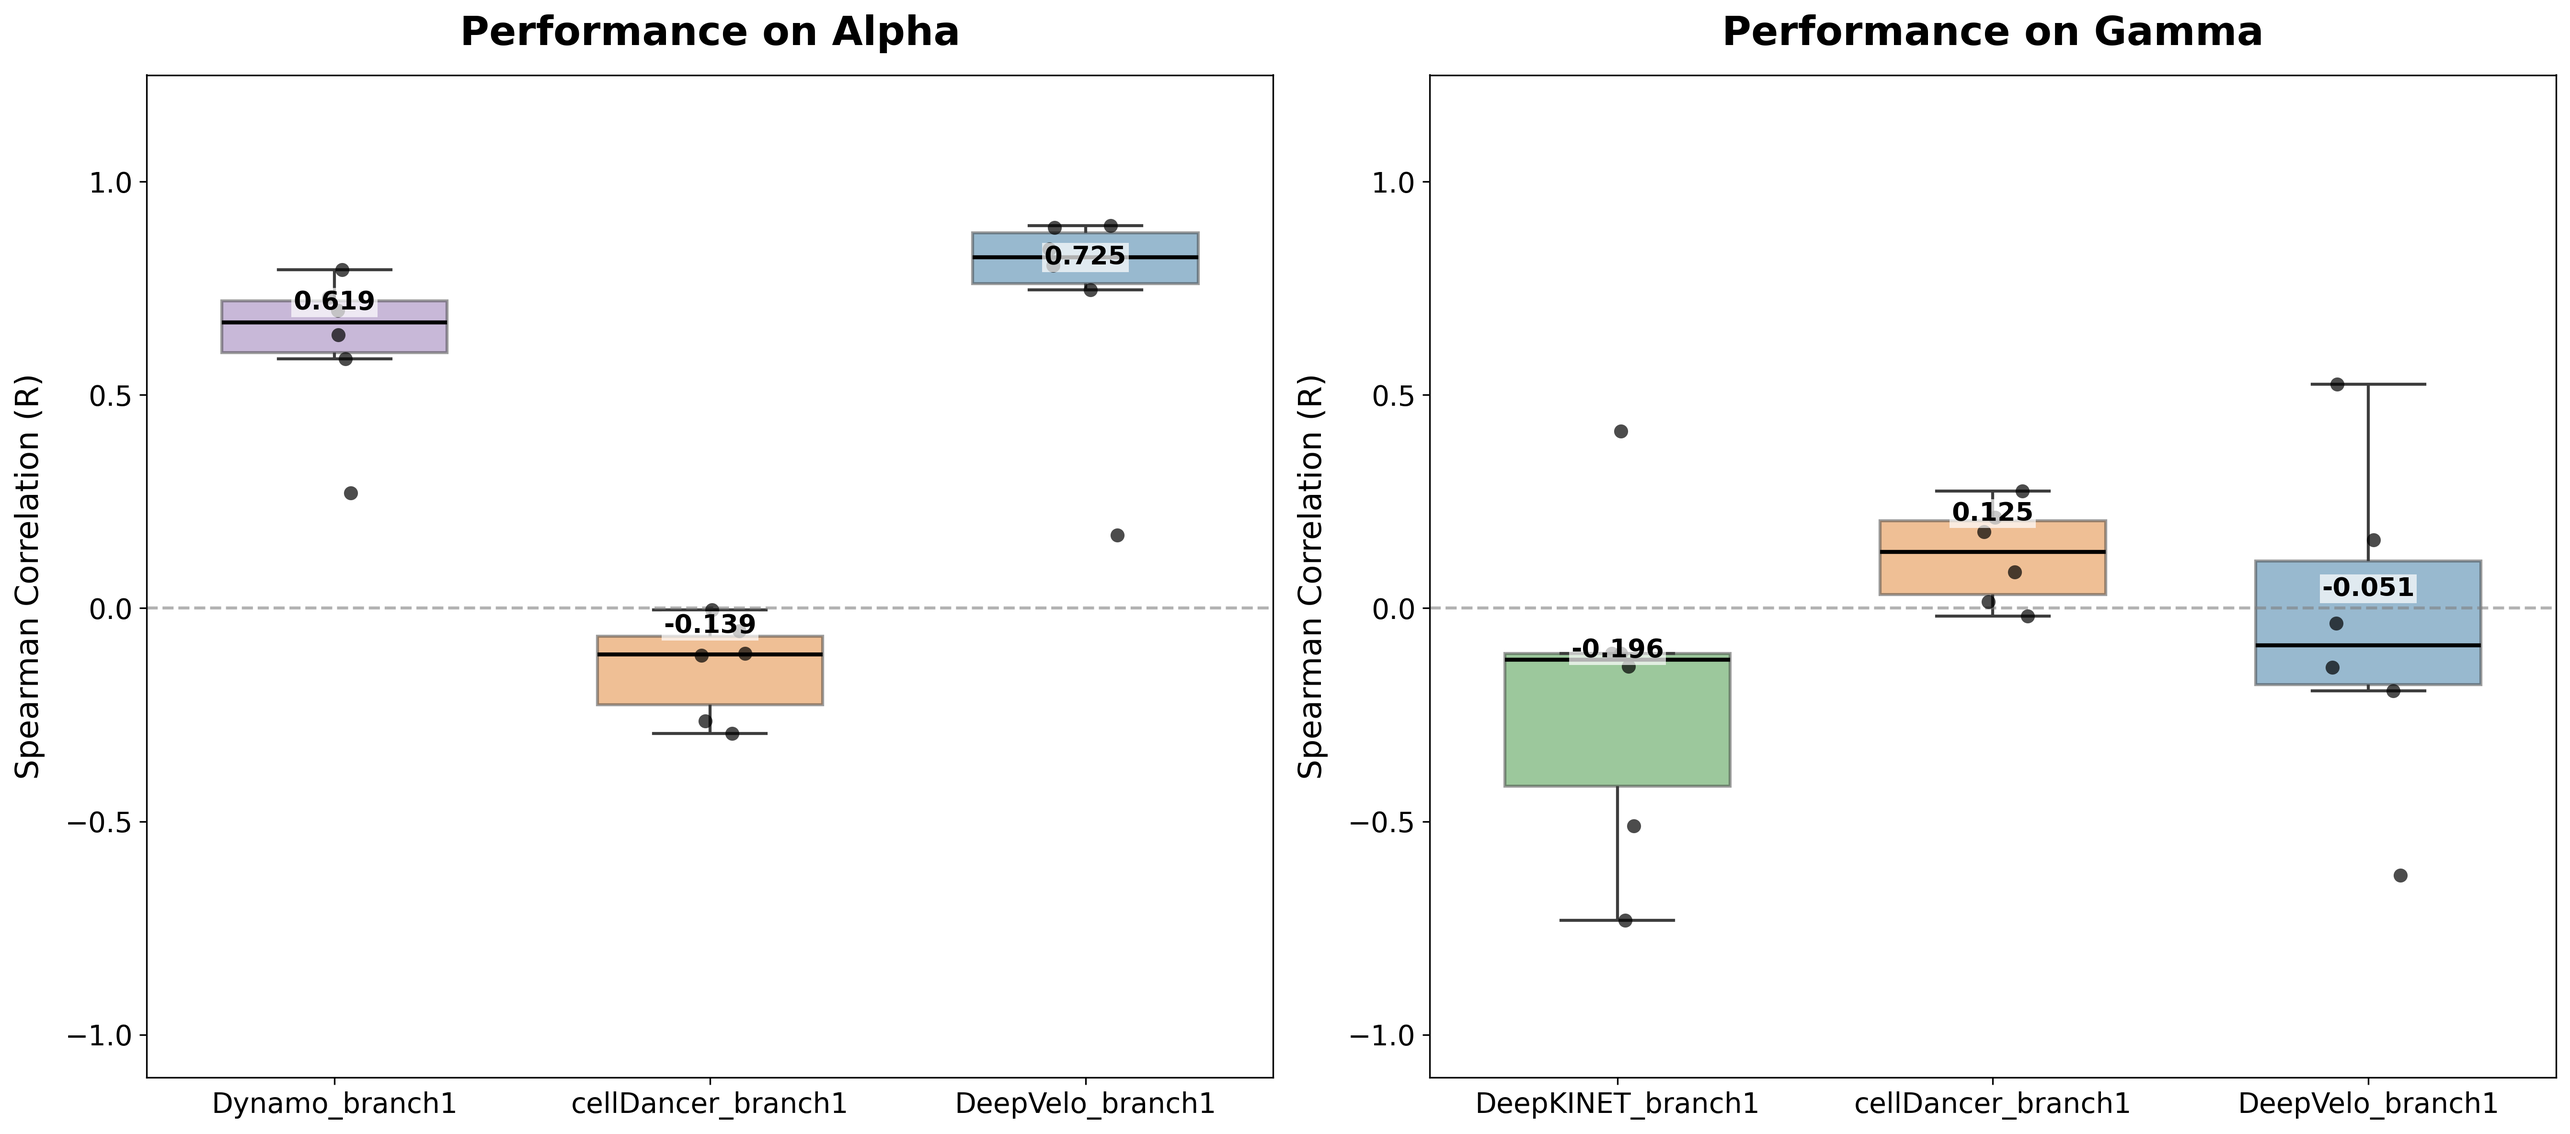
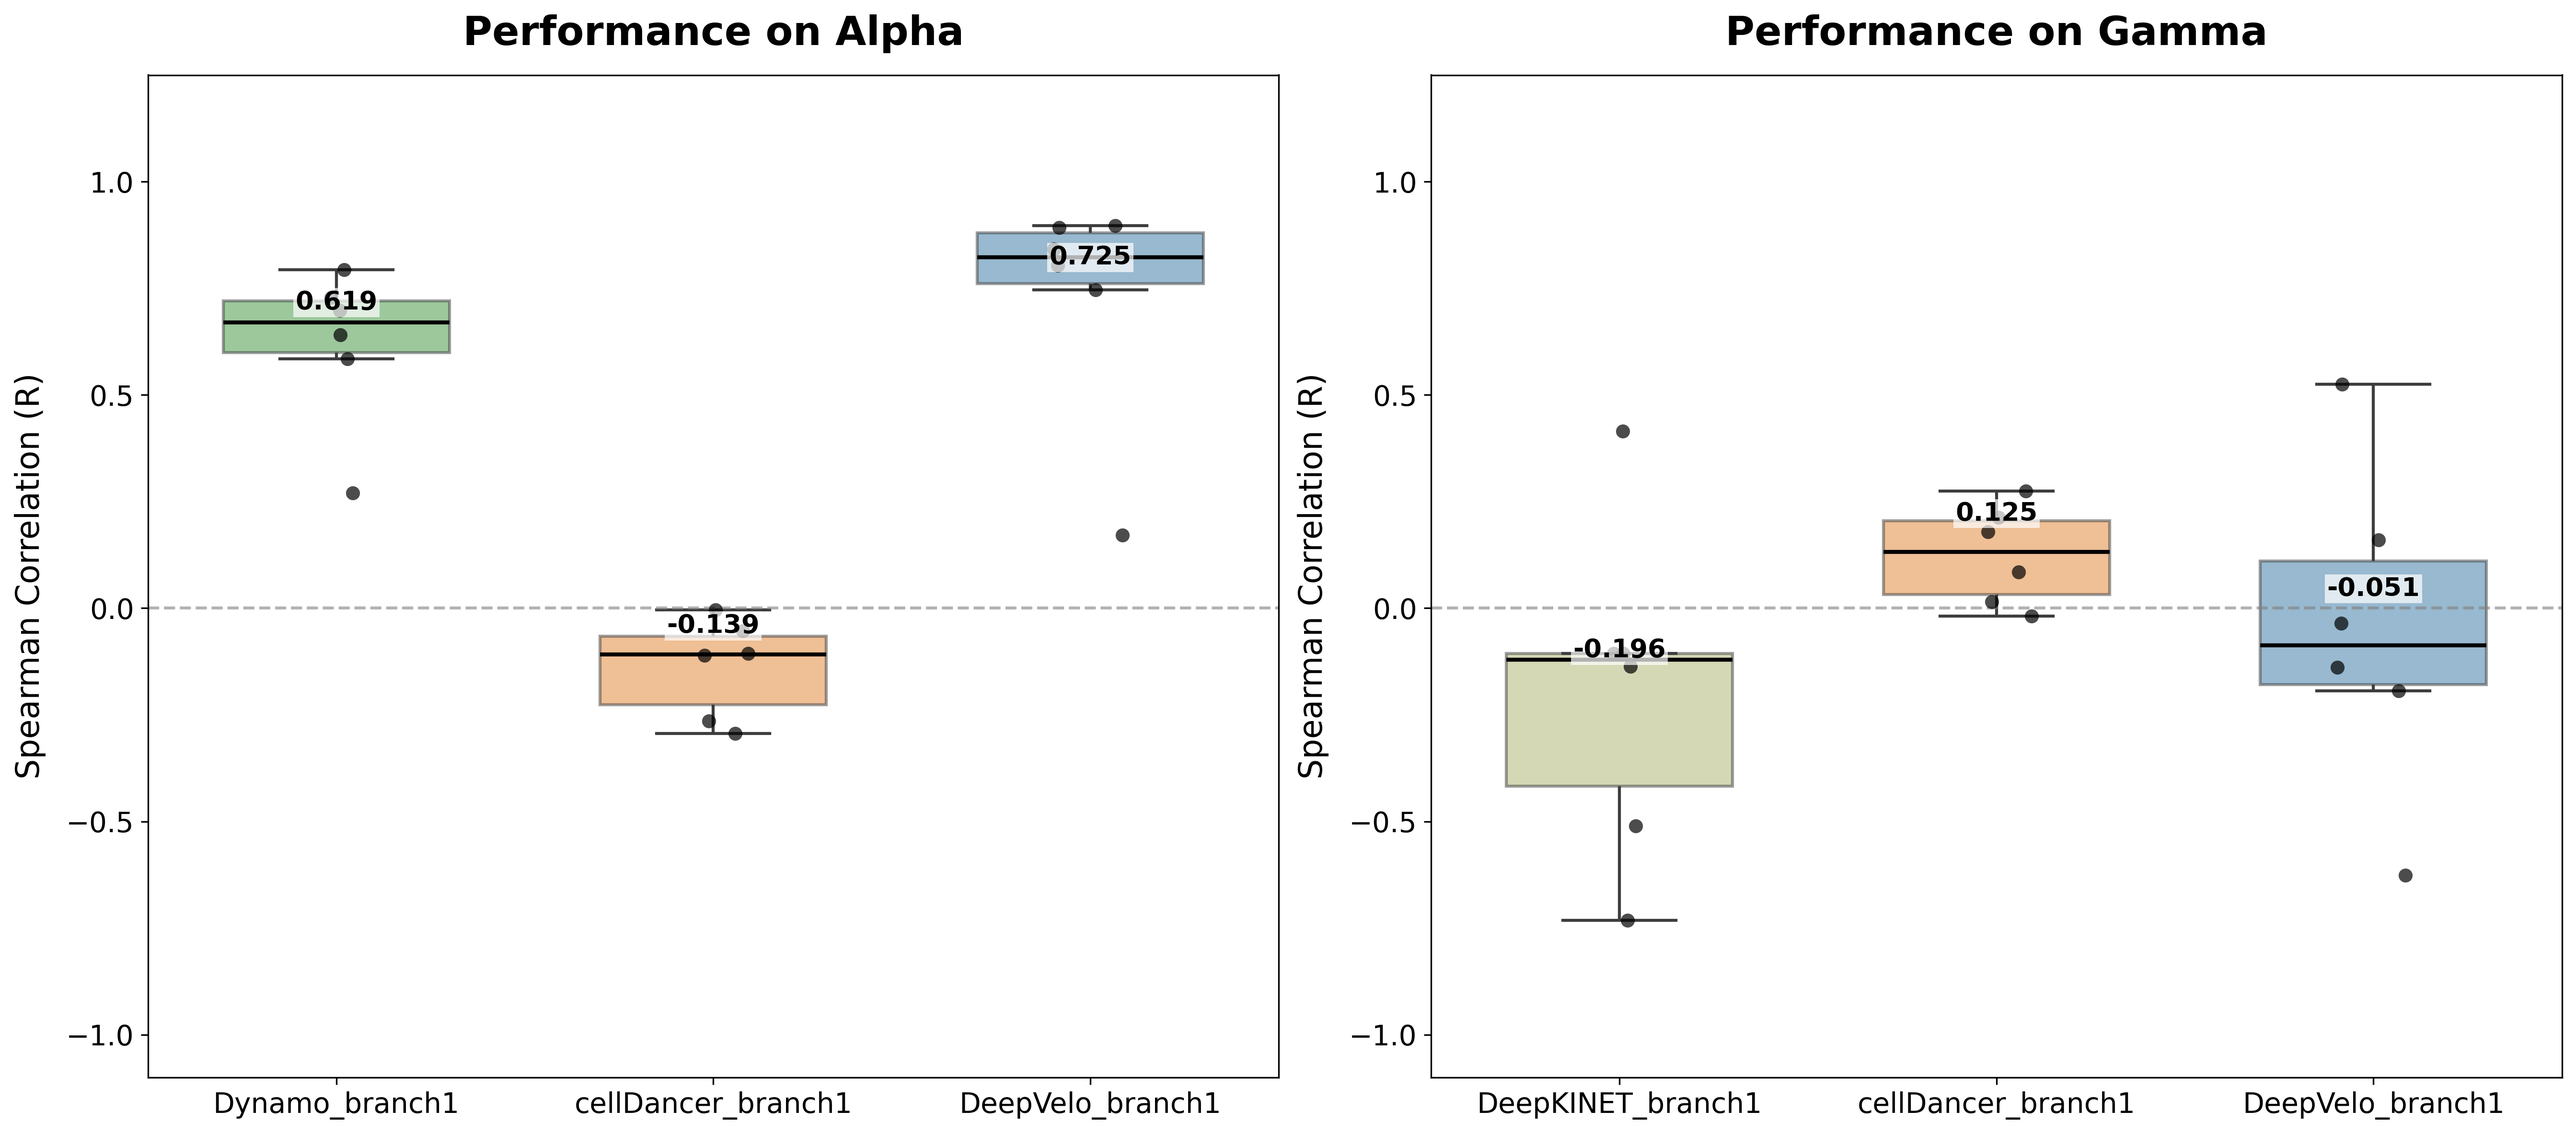
fix: enforce Figure 6 method palette

diff --git a/evaluation/kinetics_recovery/plotting/figure6.py b/evaluation/kinetics_recovery/plotting/figure6.py
@@ -31,12 +31,22 @@ DISPLAY_METHOD_NAMES = {
 }
 
 METHOD_COLORS = {
+    # Figure 6 method palette.  These colors are part of the display
+    # contract and must be reused by trajectories and organoid boxplots.
     "DeepVelo": "#1f77b4",
     "cellDancer": "#ff7f0e",
     "Dynamo(label data)": "#2ca02c",
     "TSvelo": "#e420ca",
     "DeepKINET": "#B5BD61",
 }
+
+
+def canonical_method_color(method: str) -> str:
+    """Return the fixed Figure 6 color for a method key."""
+    display_name = DISPLAY_METHOD_NAMES.get(method, method)
+    if display_name not in METHOD_COLORS:
+        raise KeyError(f"No canonical Figure 6 color registered for {method}")
+    return METHOD_COLORS[display_name]
 
 # Organoid panels are rendered separately for each branch, so the branch
 # suffix is retained for the existing method labels.  Dynamo's full
@@ -526,7 +536,7 @@ def main() -> None:
     for branch_id, branch_config in config["inputs"]["organoid"]["branches"].items():
         method_paths = {
             method: {
-                "color": values["color"],
+                "color": canonical_method_color(method),
                 **{
                     parameter: resolve(artifact_root, path)
                     for parameter, path in values.items()

diff --git a/evaluation/kinetics_recovery/plotting/README.md b/evaluation/kinetics_recovery/plotting/README.md
@@ -17,6 +17,11 @@ method, dataset, parameter, and branch, then displays selected-gene means.
 DeepKINET supplies gamma only. TSvelo alpha uses two lineage files; its stream
 uses the merged result. Dynamo A and E are recorded labelled-data manual assets, with provenance stored beside the panels; neither has an automatic H5AD renderer in this module.
 
+Figure 6 uses a fixed method palette: DeepVelo `#1f77b4`, cellDancer
+`#ff7f0e`, Dynamo(label data) `#2ca02c`, DeepKINET `#B5BD61`, and TSvelo
+`#e420ca`. The renderer applies this registry to both trajectory lines and
+organoid boxplots; per-branch configuration colors must match the registry.
+
 Streams validate cell IDs, finite arrays, dimensions, and any configured
 reference embedding. Exact equality after casting reference coordinates to
 the saved dtype is permitted for storage precision differences. Saved X/V
